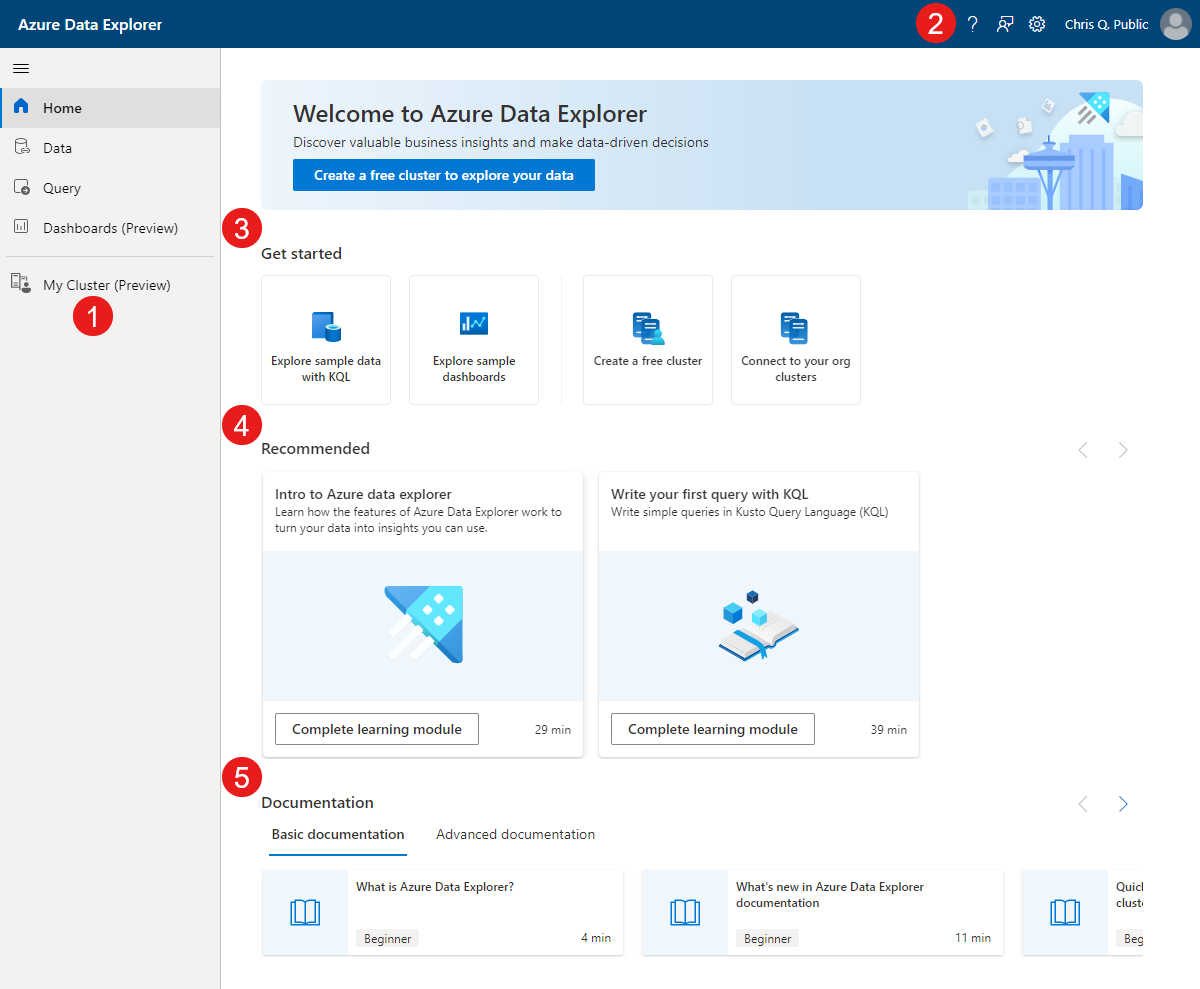
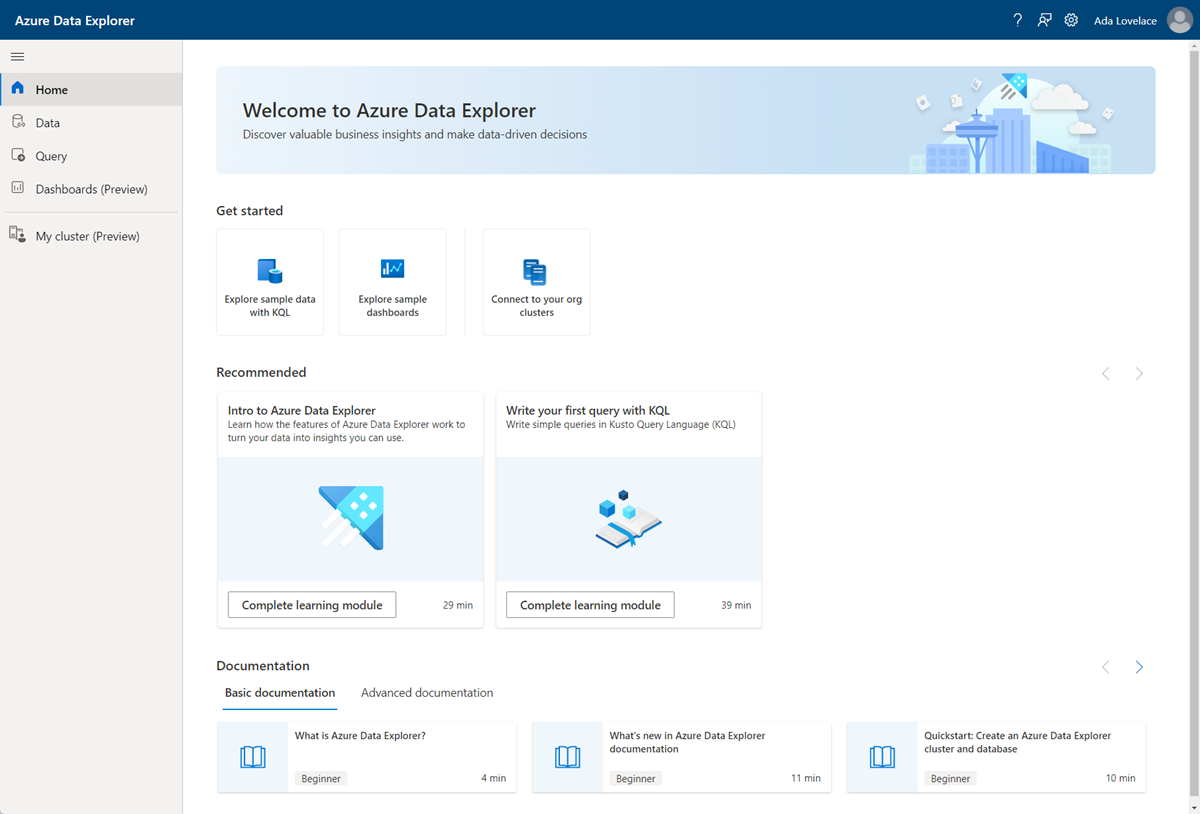
edit

diff --git a/data-explorer/web-ui-overview.md b/data-explorer/web-ui-overview.md
@@ -9,77 +9,90 @@ ms.custom: mode-portal
 
 # Azure Data Explorer web UI overview
 
-Azure Data Explorer is a fast and highly scalable data exploration service for log and telemetry data. The Azure Data Explorer [web UI](https://dataexplorer.azure.com) is a web application that provides an end to end experience of Azure Data Explorer, including streamlined processes to ingest data, query using Kusto Query Language (KQL), and view dashboard visualizations. You can start by accessing the free sample data available from the web UI, or by [ingesting](ingest-data-overview.md) your own data.
+Azure Data Explorer is a fast and highly scalable data exploration service for log and telemetry data. You can interact with Azure Data Explorer through a number of routes, including:
 
-The following image shows the Azure Data Explorer web UI **Home** page and navigation pane for accessing the core elements of the web UI.
+* Azure Data Explorer [web UI](https://dataexplorer.azure.com).
+* The desktop application [Kusto.Explorer](kusto/tools/kusto-explorer.md)
+* A variety of [APIs](kusto/api/index.md)
 
-:::image type="content" source="media/web-ui-overview/web-ui-home-full-numbered.png" alt-text="Screenshot of Azure Data Explorer web U I with numbered sections." lightbox="media/web-ui-overview/web-ui-home-full-numbered.png":::
+In this article, you'll see how the web UI option offers an end-to-end data exploration experience, from data ingestion to data query and dashboards. You don't need an Azure account to use the web UI. All you need is a Microsoft-linked email account.
 
-1. Left pane
-1. Help, feedback, and settings
-1. Quick actions to help you get started with data exploration
-1. Recommendations for additional resources and training
-1. Documentation
+## Web UI at a glance
 
-## Experience data exploration using the Azure Data Explorer web UI
+The following image shows the Azure Data Explorer web UI **Home** page and navigation pane for accessing the core elements.
 
-Azure Data Explorer Web UI provides a web experience that enables you to connect to Azure Data Explorer clusters and manage data with several streamlined processes.
+:::image type="content" source="media/web-ui-overview/web-ui-home-full-numbered.png" alt-text="Screenshot of Azure Data Explorer web UI." lightbox="media/web-ui-overview/web-ui-home-full-numbered.png":::
 
-### Explore the home page
+There are five tabs on the left pane: 
 
-In the **[Home](https://dataexplorer.azure.com/home)** page, query the sample data provided or explore your own data.
+* [Home](#where-do-i-start)
+* [Data](#data)
+* [Query](#query)
+* [Dashboards](#dashboards-preview)
+* [Cluster](#cluster-preview)
 
-- **Explore sample data with KQL**:  choose a dataset from the [samples gallery](web-ui-samples-gallery.md) that is most relevant to your needs. Next, review the provided hands-on tutorials to learn KQL and run queries.
-- **Explore sample dashboards**:  explore data visualization with [sample dashboards](web-ui-samples-gallery.md#explore-sample-dashboards).
-- [**Create a free cluster**](https://dataexplorer.azure.com/freecluster) or [**My Cluster**](https://dataexplorer.azure.com/freecluster): ingest your own data and analyze it for free.
-- **Connect to your org clusters**: connect to an existing [cluster](web-query-data.md#add-clusters).
-- Review **Recommended** learning modules and **Basic** and **Advanced documentation** to build your skills.
-- Continue with the tabs in the left pane to guide your data analytics journey.
+Access help, feedback, and settings by selecting one of the icons in the top right corner of the menu bar. 
 
-    | Tab | Description  |
-    |---------|----------|
-    | **Data** |  Ingest data from different sources, create database tables, and map the table schema. Learn about the different ways to ingest data with the fast and intuitive [one click ingestion](ingest-data-one-click.md) wizard.   |
-    | **Query** |  Open the [query editor window](https://dataexplorer.azure.com)to [write](write-queries.md) and run queries, or learn from descriptive tutorials in the [samples gallery](https://dataexplorer.azure.com/clusters/help).        |
-    | **Dashboards** | [Visualize](azure-data-explorer-dashboards.md) and explore either your own data or built-in dashboards from the samples gallery.
+## Where do I start?
 
-### Manage your data
+In the **[Home](https://dataexplorer.azure.com/home)** page, you can get started on different workflows.
 
-In the **[Data management](https://dataexplorer.azure.com/oneclick)** page, ingest data and set policies to optimize data ingestion and management.
+* Explore the service using publicly available data: 
+    * **Explore sample data with KQL**:  choose a dataset from the [samples gallery](web-ui-samples-gallery.md) that is most relevant to your needs. Next, review the provided hands-on tutorials to learn KQL and run queries.
+    * **Explore sample dashboards**:  Explore data visualization with [sample dashboards](web-ui-samples-gallery.md#explore-sample-dashboards).
+* Work on your own data without committing resources: 
+    * [**Create a free cluster**](https://dataexplorer.azure.com/freecluster) or [**My Cluster**](https://dataexplorer.azure.com/freecluster): Ingest your own data and analyze it for free.
+* **Connect to an existing cluster in your org**: [Add clusters](web-query-data.md#add-clusters).
 
-- Select from quick actions to [ingest data](https://dataexplorer.azure.com/oneclick/ingest?sourceType=file), [create tables](https://dataexplorer.azure.com/oneclick/createtable), update [batching policies](https://dataexplorer.azure.com/oneclick/updateTableBatchingPolicy), and [generate a sample app](https://dataexplorer.azure.com/oneclick/generatecode?sourceType=file).
-- Explore different ingestion options by topic:
+At the bottom of the home page, you'll find links to some general documentation and Learn modules to help you learn more about Kusto Query Language.
+
+## Data
+
+The **[Data management](https://dataexplorer.azure.com/oneclick)** page is where you ingest data and set policies on ingestion and retention.
+
+> [!NOTE] 
+> Use the search box on the right side of the page to filter cards by key terms.
+
+* Select from quick actions to [ingest data](https://dataexplorer.azure.com/oneclick/ingest?sourceType=file), [create tables](https://dataexplorer.azure.com/oneclick/createtable), update [batching policies](https://dataexplorer.azure.com/oneclick/updateTableBatchingPolicy), and [generate a sample app](https://dataexplorer.azure.com/oneclick/generatecode?sourceType=file).
+* Read more about these actions in the documentation:
 
     |Tab  |Ingestion options  |
     |---------|---------|
-    |**Manage**     | Create [database tables](https://dataexplorer.azure.com/oneclick/createtable), [external tables](external-table.md) and update [batching](/azure/data-explorer/kusto/management/batchingpolicy) and [retention](/azure/data-explorer/kusto/management/retentionpolicy) policies.      |
+    |**Manage**     | Create [tables](https://dataexplorer.azure.com/oneclick/createtable), [external tables](external-table.md) and update [batching](/azure/data-explorer/kusto/management/batchingpolicy) and [retention](/azure/data-explorer/kusto/management/retentionpolicy) policies.      |
     |**One-time ingestion**    | Ingest from [local files, blob storage](/azure/data-explorer/ingest-data-one-click), or a [container](/azure/data-explorer//one-click-ingestion-new-table).      |
     |**Continuous ingestion**     | Configure continuous ingestion from [Event Hubs](/azure/data-explorer/one-click-event-hub) or a blob container.        |
-    |**Backfill**     |  Ingest data from sources as a one time or continuous ingestion.       |
     |**SDKs**     |  The [one-click sample app generator](https://dataexplorer.azure.com/oneclick/generatecode?programingLang=Python) is a tool that allows you to create a working app to [ingest and query your data in your preferred programming language](sample-app-generator-one-click.md). Learn more about connectors to expand and explore the capabilities of Azure Data Explorer.    |
 
-- Use the search box on the right side of the page to filter cards by key terms.
+## Query
 
-### Query your data
+Once you've ingested data or connected to a data source, you'll use the [query page](https://dataexplorer.azure.com/clusters/help) to query data and explore results.
 
- In the [query editor window](https://dataexplorer.azure.com/), write and run KQL queries to process data with the Azure Data Explorer.
+* Write and run Kusto Query Language (KQL) queries in the query editor window. For help getting started with KQL, see: 
+    *  [Quickstart: Query data in the Azure Data Explorer web UI](web-query-data.md)
+    * [Kusto Query Language overview](./kusto/query/index.md).
+    * Learn module: [Write your first KQL query](/learn/modules/write-first-query-kusto-query-language/).
+* View and manipulate results in the results grid.
 
-- [Add the help cluster](web-query-data.md#add-clusters) to ingest sample data and access the samples gallery.
-- Explore the [samples gallery](web-ui-samples-gallery.md) to query prepopulated tables using [KQL tutorials](web-ui-samples-gallery.md#explore-sample-data-with-kql-tutorials).
-- Read more about [Kusto Query Language](/azure/data-explorer/kusto/query/).
-- Learn how to [write your first KQL query](/learn/modules/write-first-query-kusto-query-language/).
+## Dashboards (preview)
 
-### Visualize your data
+[Dashboards](https://dataexplorer.azure.com/dashboards) tell a story through visualizations, and are an interactive way to monitor your data and see all of your most important insights at a glance.
 
-In the [dashboard editor](https://dataexplorer.azure.com/dashboards), visualize data and develop insights through sample dashboards, or by building new dashboards and viewing dashboards shared by others.
+* [View sample dashboards](web-ui-samples-gallery.md#explore-sample-dashboards) with data from the **help** cluster.
+* Create your own dashboards using the following guidance:
+    * [Visualize data with Azure Data Explorer dashboards](azure-data-explorer-dashboards.md).
+    * [Create a dashboard](azure-data-explorer-dashboards.md#create-a-dashboard) 
+    * [Use dashboard parameters](dashboard-parameters.md)
+    * [Customize dashboard visuals](dashboard-customize-visuals.md)
 
-- Gain insights and [visualize data with Azure Data Explorer dashboards](azure-data-explorer-dashboards.md).
-- From the Home page, select **Explore sample dashboards** to [view sample dashboards](web-ui-samples-gallery.md#explore-sample-dashboards) with data from the **help** cluster.
-- [Create a dashboard](azure-data-explorer-dashboards.md#create-a-dashboard) in the Web UI or by [importing a dashboard file](azure-data-explorer-dashboards.md#to-create-new-dashboard-from-a-file).
-- Use dashboard parameters to explore and [interact with your data](dashboard-parameters.md#interact-with-your-data-using-cross-filter).
-- [Customize](dashboard-customize-visuals.md#customize-azure-data-explorer-dashboard-visuals) visuals in dashboard tiles.
+## My cluster (preview)
+
+Manage your [free cluster](https://dataexplorer.azure.com/freecluster) with the following options:
+* Upgrade to Azure Cluster
+* View cluster URI, data ingestion URI, and cluster policies
+* Create a database in your free cluster
 
 ## Next steps
 
-- [Ingest sample data into Azure Data Explorer](ingest-sample-data.md)
-- [Query data in the Azure Data Explorer web UI](web-query-data.md#run-queries)
-- [Explore the Azure Data Explorer web UI samples gallery](web-ui-samples-gallery.md)
+* [Ingest sample data into Azure Data Explorer](ingest-sample-data.md)
+* [Query data in the Azure Data Explorer web UI](web-query-data.md#run-queries)
+* [Explore the Azure Data Explorer web UI samples gallery](web-ui-samples-gallery.md)
